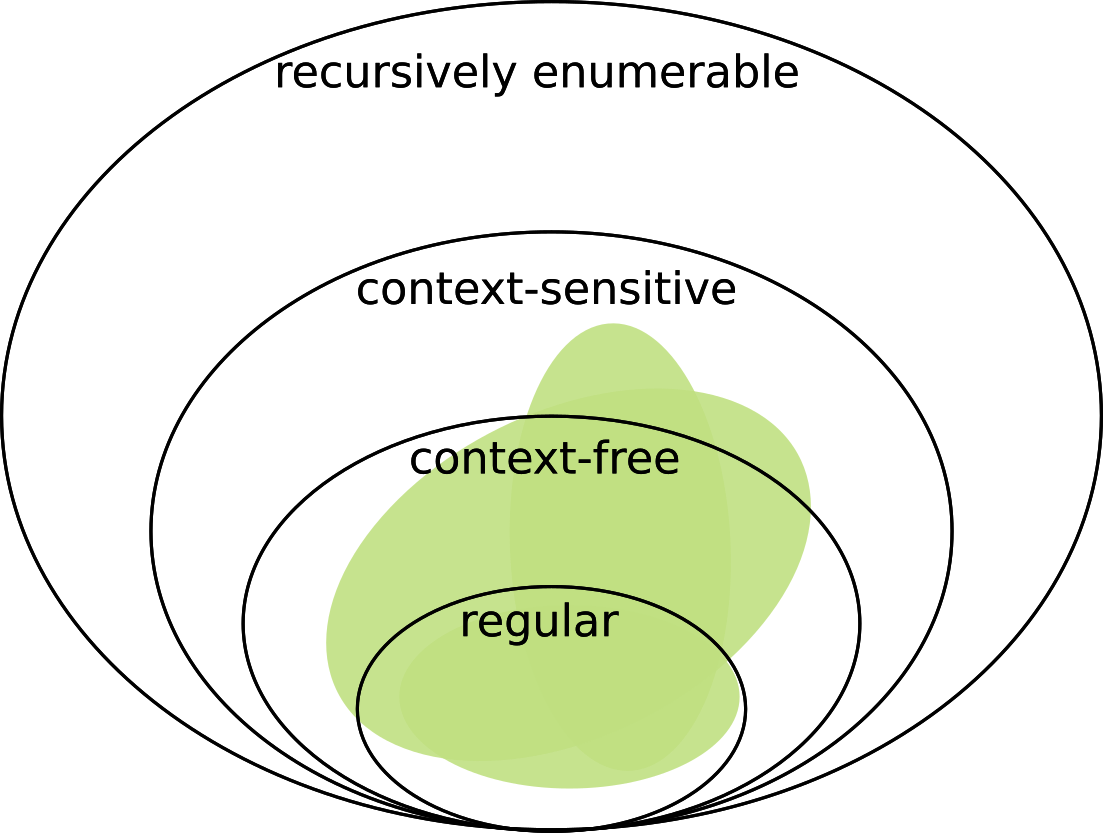
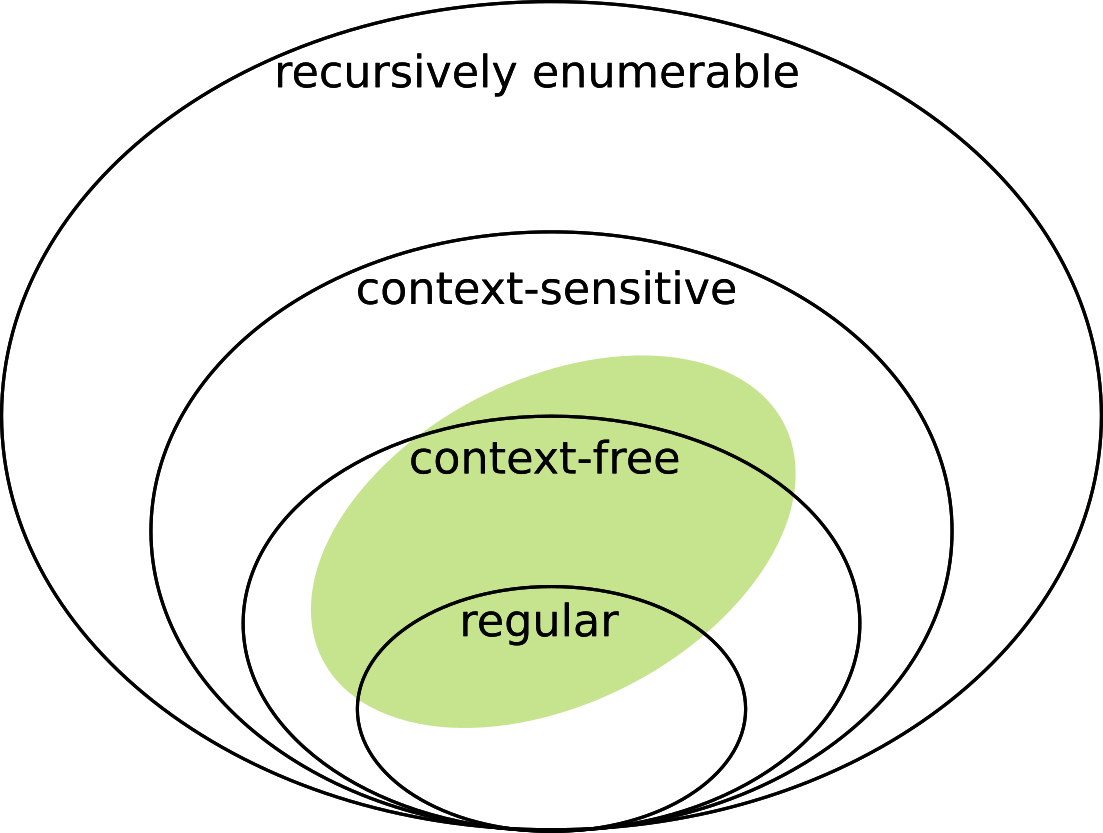
text

diff --git a/paper/nodalida2017/nodalida2017.tex b/paper/nodalida2017/nodalida2017.tex
@@ -122,21 +122,27 @@ The grammar that accepts this language is simply \texttt{SELECT (a)}.
 
 
 
-
-
-We start exploring the expressivity without any previous assumptions. 
-For all we know, CG may be in no particular category at all, as shown 
-in Figure~\ref{fig:nocorr}. Rather than enumerating individual grammars 
-for a given class, we need a method that can transform all languages 
-in that class into CG, or prove that there is no such method.
+% We start exploring the expressivity without any previous assumptions. 
+% For all we know, CG may be in no particular category at all, as shown 
+% in Figure~\ref{fig:nocorr}. Rather than enumerating individual grammars 
+% for a given class, we need a method that can transform all languages 
+% in that class into CG.
 
 \section{Is CG regular?}
 
-Regular languages can be expressed in the form of finite automata.
-For the automaton given in Figure~\ref{fig:fsa}, we implement a corresponding 
+In order to claim that a formal language belongs to a certain class, 
+we need to show that it can express all constructs in the said class. 
+Even if CG can express the language $a*$, it is not yet evidence 
+that whole CG is regular: for all we know, CG could just have a common subset 
+with regular languages, such as the hypothetical formalism in Figure~\ref{fig:nocorr}.
+
+Rather than enumerating individual grammars for a given class, we need a method 
+that can transform all languages in that class into CG. In the case of regular
+languages, we describe a transformation from finite-state automata to CG.
+Figure~\ref{fig:fsa} presents an example automaton, with $\Sigma = \{$\emph{det,adj,noun}$\}$ for which we implement a corresponding 
 CG as follows.
 
-Assume our alphabet is $\Sigma = \{det,adj,noun\}$. Then we have \emph{word cohorts}
+We have \emph{word cohorts}
 $\langle \Sigma \rangle_1$, with \emph{state cohorts} $\langle S \rangle_1$
 
 The transitions are modelled as $\langle \Sigma \rangle_1$ each, but in between each
@@ -150,15 +156,15 @@ For example, a sequence with two transitions would be modelled with the followin
 \centering
 \begin{tabular}{lllll}
       \t{"<s>"} &  \t{"<w>"}   &      \t{"<s>"} &     \t{"<w>"} &     \t{"<s>"} \\
- ~~~~~~\t{s0}   & ~~~~\t{det}  &  ~~~~\t{ s0}   &  ~~~~\t{det}  &  ~~~~\t{s0}   \\
- ~~~~~~\t{s1}   & ~~~~\t{adj}  &  ~~~~\t{ s1}   &  ~~~~\t{adj}  &  ~~~~\t{s1}    \\
- ~~~~~~\t{s2}   & ~~~~\t{noun} &  ~~~~\t{ s2}   &  ~~~~\t{noun} &  ~~~~\t{s2}  
+ ~~~~~~\t{s1}   & ~~~~\t{det}  &  ~~~~\t{ s1}   &  ~~~~\t{det}  &  ~~~~\t{s1}   \\
+ ~~~~~~\t{s2}   & ~~~~\t{adj}  &  ~~~~\t{ s2}   &  ~~~~\t{adj}  &  ~~~~\t{s2}    \\
+ ~~~~~~         & ~~~~\t{noun} &                &  ~~~~\t{noun} &  
 \end{tabular}
 \end{table}
 
 The rules of the grammar disambiguate both word cohorts and state cohorts. 
-Given that every transition happens between two states, and every state is 
-in between some transition to and from, we can write every rule with exactly
+Given that every transition happens between two states, and every state 
+has a transition to and from, we can write every rule with exactly
 two contextual tests: -1 and 1. 
 
 We begin the disambiguation from the first state cohort, which can only be
@@ -190,7 +196,7 @@ and can be
 
 \begin{figure}[t]
   \centering
-    \includegraphics[width=0.4\textwidth]{fsa.png}
+    \includegraphics[width=0.3\textwidth]{fsa.png}
   \caption{A finite-state automaton describing the regular language \t{det (adj)* noun}.}
  \label{fig:fsa}
 \end{figure}
